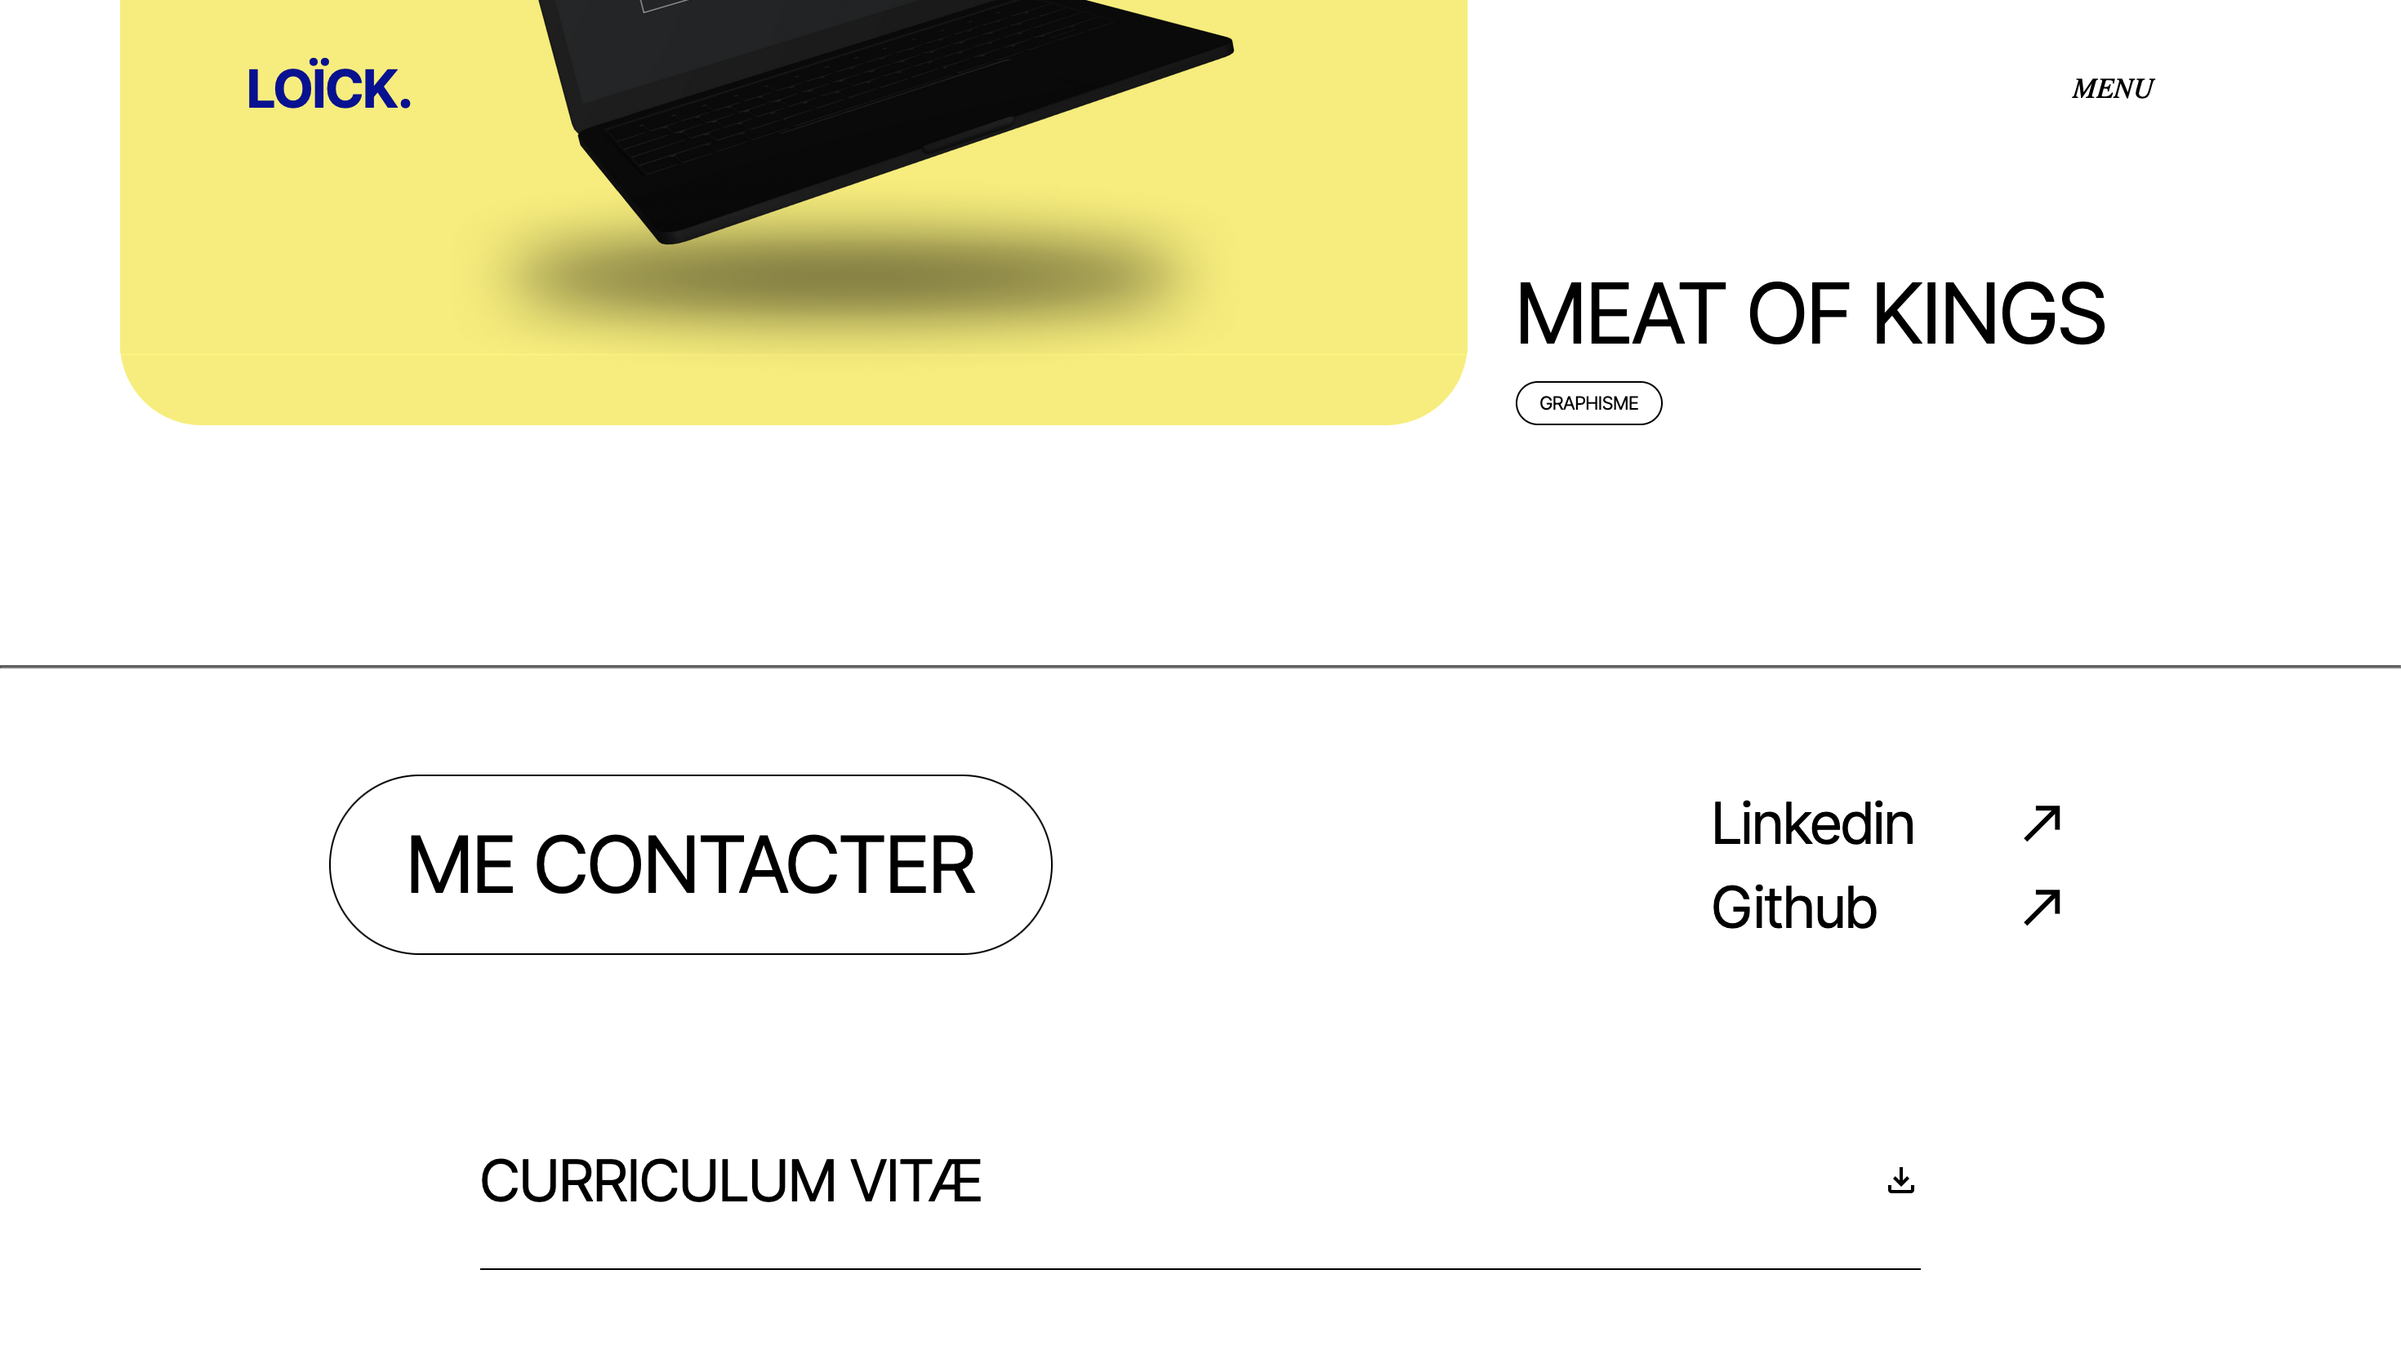
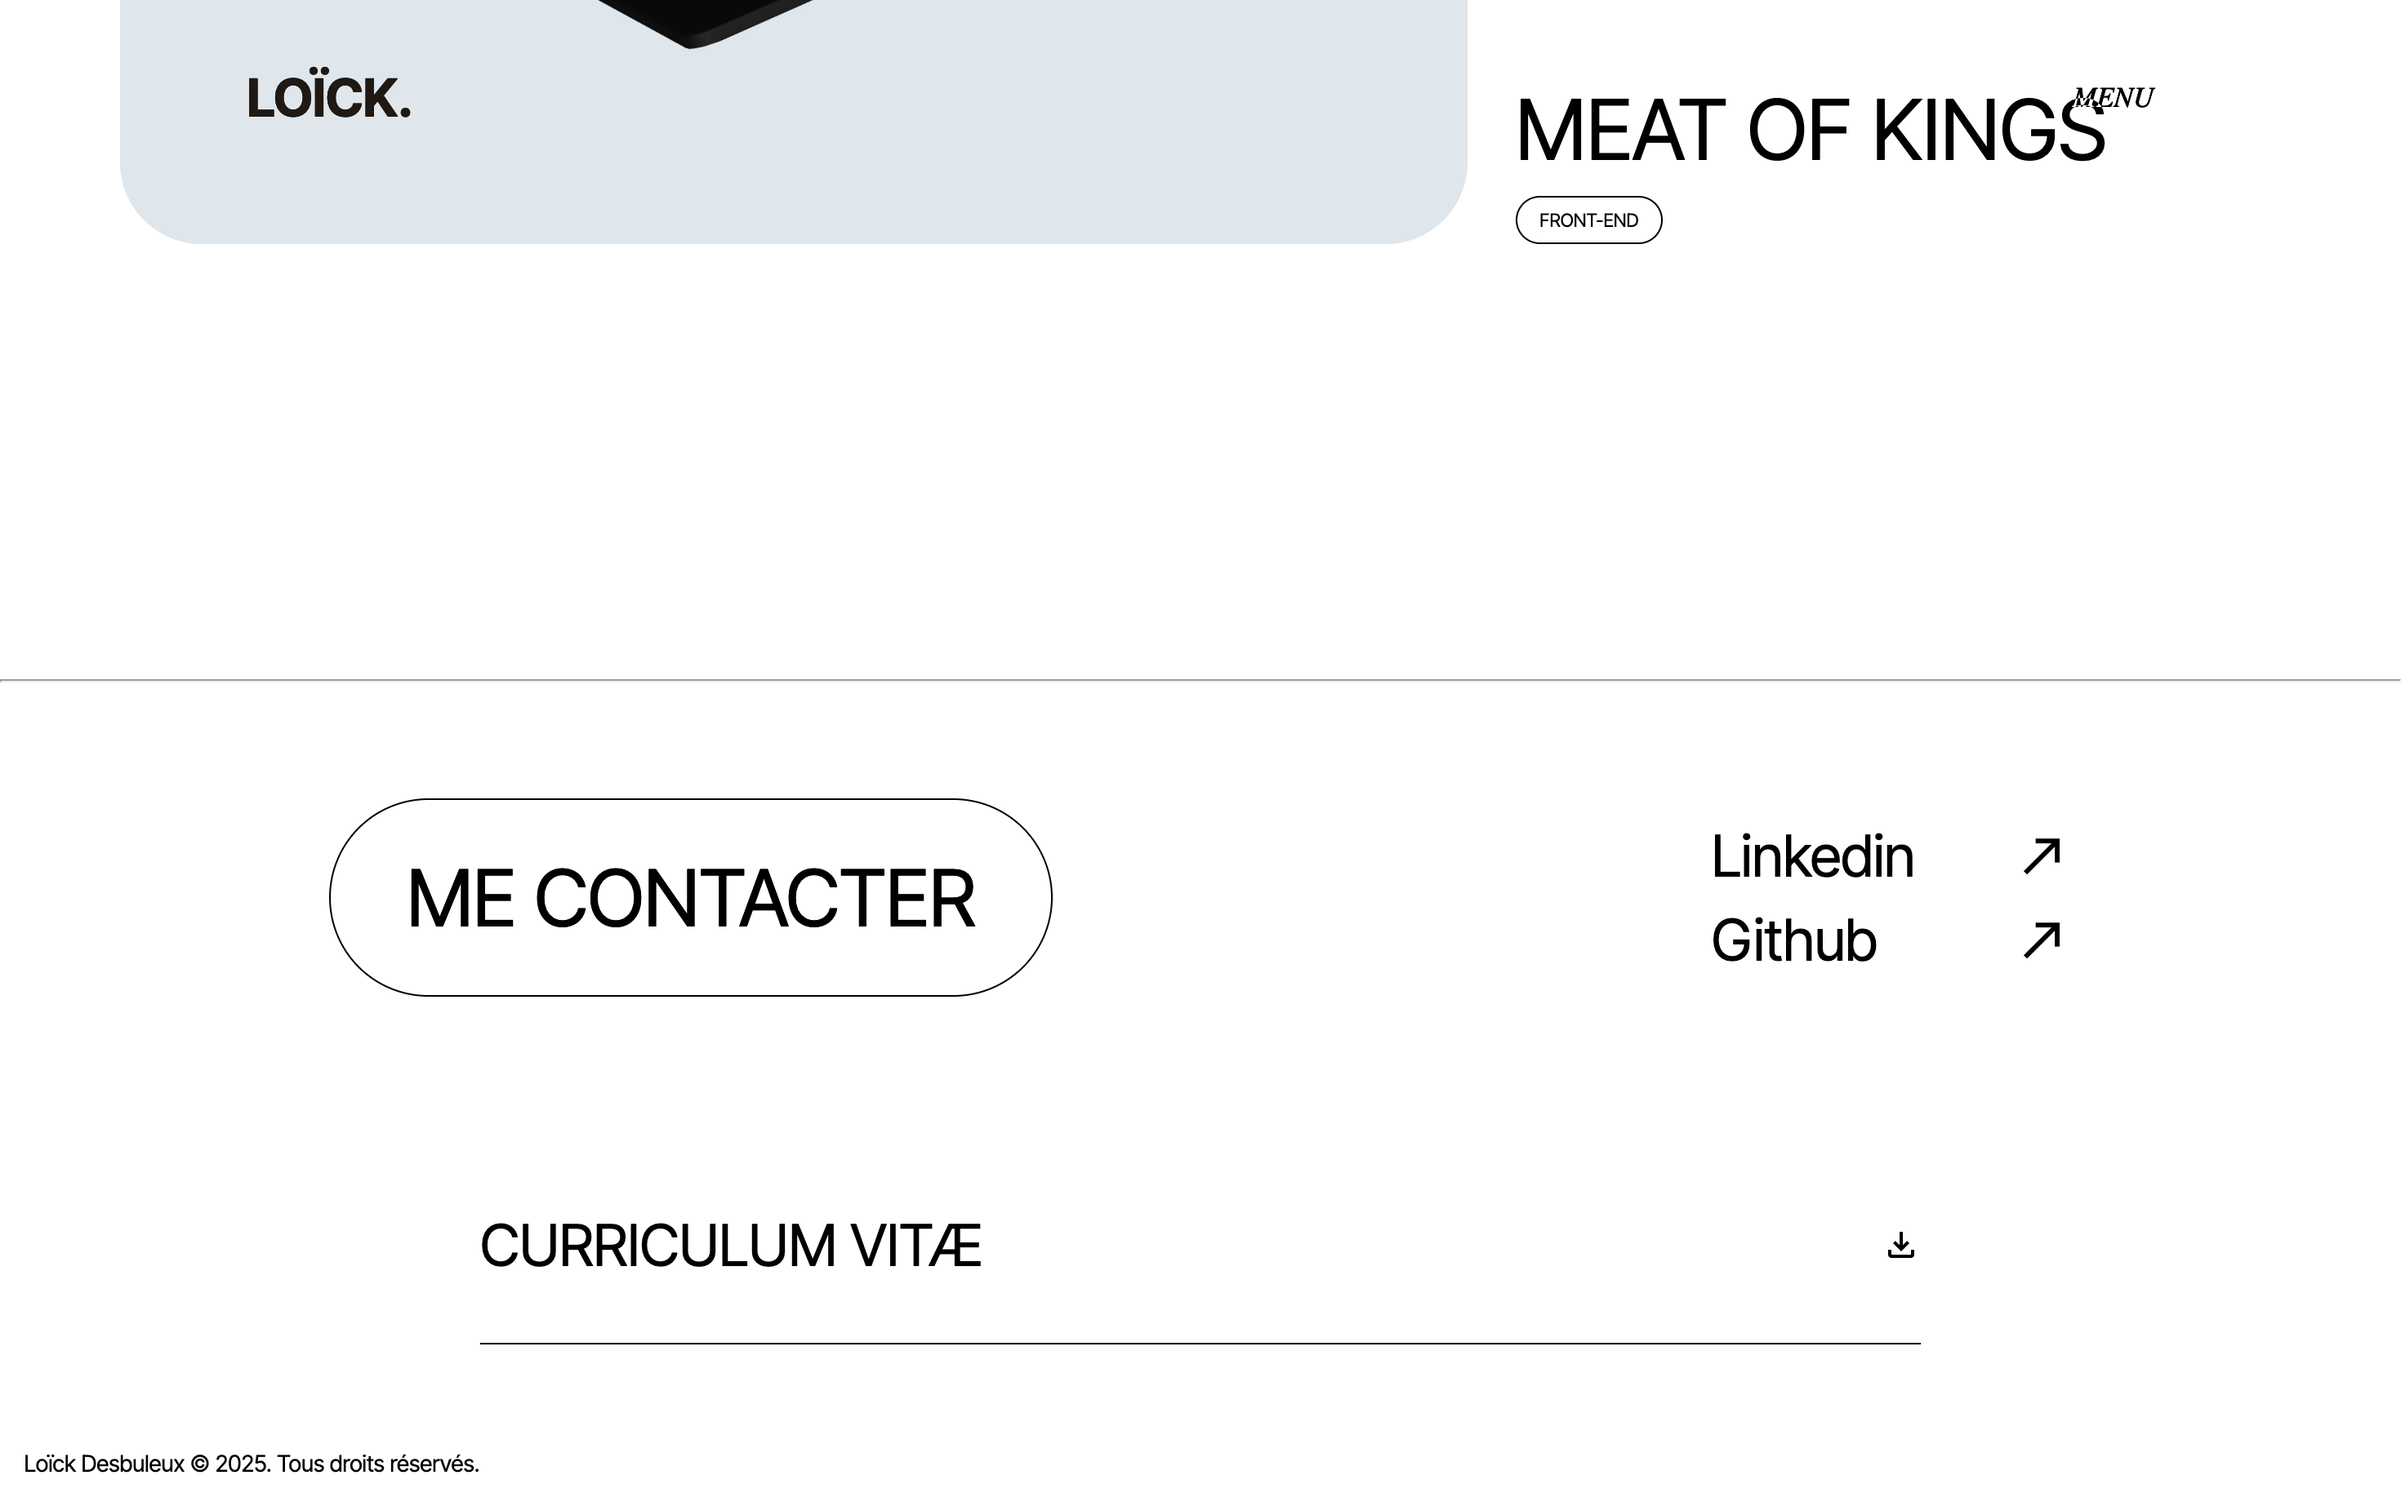
Add files via upload

diff --git a/index.html b/index.html
@@ -65,7 +65,7 @@
         </div>
     <section id="home">
        <h2 class="hidden-left">PORTFOLIO
-        <br><span>2024</span></h2>   
+        <br><span>2025</span></h2>   
            <aside>
            
             <script type="module" src="https://unpkg.com/@splinetool/viewer@1.0.66/build/spline-viewer.js"></script>
@@ -78,18 +78,18 @@
         <h2 class="reveal-left">A propos<br><span>de moi</span></h2>
         <div class="container">
             <div class="left">
-            <p class="reveal">Je suis Loïck Desbuleux, étudiant en deuxième année de BUT Métiers du Multimédia et de l'Internet. Aspirant Développeur Web, je suis fasciné par le web et les nouvelles technologies. Je m'efforce de combiner esthétique et fonctionnalité dans mes projets.</p>
+            <p class="reveal">Je suis Loïck Desbuleux, étudiant en troisième année de BUT Métiers du Multimédia et de l'Internet. Aspirant Développeur Web, je suis fasciné par le web et les nouvelles technologies. Je m'efforce de combiner esthétique et fonctionnalité dans mes projets.</p>
             <div id="keywords" class="reveal-bottom">
                 <span>Responsive</span>
                 <span>UI / UX</span>
                 <span>Webdesign</span>
-                <span>Graphisme</span>
+                <span>Jeu vidéo</span>
                 <span>Front-end</span>
                 <span>Back-end</span>
                
             </div>
             </div>
-            <img src="./images/IMG_9680_comp.jpg" class="reveal-right" alt="photo"/>
+            <img src="./images/photo.png" class="reveal-right" alt="photo"/>
         </div>
         <div class="skills">
             <div class="reveal-right-slider web-container" >
@@ -149,10 +149,35 @@
 
     </section>
     <section id="projects">
-        <h2 class="reveal-left">SELECTION<br><span>DE PROJETS</span></h2>
+        <h2 class="reveal-left">SELECTION<br><span>DE TRAVAUX</span></h2>
         <div class="projects">
+            
+            <div id="guardianofaetheria" class="reveal-left">
+                <a href="./html/guardianofaetheria.html"><div class="left-project"><img src="images/GuardianOfAetheria/guardianofaetheria.png"></div></a>
+                <div class="right-project">
+                    <h3><a href="./html/guardianofaetheria.html">Guardian <br> Of Æthéria</a></h3>
+                    <div>
+                        <span>Jeu vidéo</span>
+                    </div>
+
+                </div> 
+            </div>
+
+            <div id="pokemoncards" class="reveal-right">
+                <a href="./html/pokemoncards.html"><div class="left-project"><img src="images/PokemonCards/pokemoncards.png"></div></a>
+                <div class="right-project">
+                    <h3><a href="./html/pokemoncards.html">Pokemon Cards</a></h3>
+                    <div>
+                        <span>Front-end</span>
+                        <span>Back-end</span>
+                    </div>
+
+                </div> 
+            </div>
+            
+            
             <div id="dashboard" class="reveal-left">
-                <a href="./html/dashboard.html"><div class="left-project"><img src="images/Dashboard/dashboard.png"></div></a>
+                <a href="./html/dashboard.html"><div class="left-project"><img src="images/Dashboard/dashbord.png"></div></a>
                 <div class="right-project">
                     <h3><a href="./html/dashboard.html">Dashboard</a></h3>
                     <div>
@@ -163,7 +188,7 @@
                 </div> 
             </div>
             <div id="bugtracker" class="reveal-right">
-                <a href="./html/bugtracker.html"><div class="left-project"><img src="images/BugTracker/Mockup Bugtracker.png"></div></a>
+                <a href="./html/bugtracker.html"><div class="left-project"><img src="images/BugTracker/bugtracker.png"></div></a>
                 <div class="right-project">
                     <h3><a href="./html/bugtracker.html">Bugtracker</a></h3>
                     <div>
@@ -173,32 +198,11 @@
                 </div> 
             </div>
             <div id="meatofkings" class="reveal-left">
-                <a href="./html/mok.html"><div class="left-project"><img src="images/MOKS/Mockup mok.png"></div></a>
+                <a href="./html/mok.html"><div class="left-project"><img src="images/MOKS/meatofkings.png"></div></a>
                 <div class="right-project">
                     <h3><a href="./html/mok.html">Meat of Kings</a></h3>
                     <div>
                         <span>Front-end</span>
-                    </div>
-
-                </div> 
-            </div>
-            <div id="spine" class="reveal-right">
-                <a href="./html/spine.html"><div class="left-project"><img src="images/SpineSkatepark/Mockup spine.png"></div></a>
-                <div class="right-project">
-                    <h3><a href="./html/spine.html">Spine Skatepark</a></h3>
-                    <div>
-                        <span>UI / UX</span>
-                        <span>Graphisme</span>
-                    </div>
-
-                </div> 
-            </div>
-            <div id="meatofkingsvisuel" class="reveal-left">
-                <a href="./html/mokiv.html"><div class="left-project"><img src="images/MOKIV/Mockup mokiv.png"></div></a>
-                <div class="right-project">
-                    <h3><a href="./html/mokiv.html">Meat Of Kings</a></h3>
-                    <div>
-                        <span>Graphisme</span>
                     </div>
 
                 </div> 
@@ -216,12 +220,12 @@
                     north_east</span></span></a>
             </div>
         </div>
-        <a href="./assets/Alternance.pdf" download="CV" class="hidden-top"><span>Curriculum vitæ</span><span class="material-symbols-outlined">
-            download</span><img src="assets/Alternance.png"/></a>
+        <a href="./assets/CV.pdf" download="CV" class="hidden-top"><span>Curriculum vitæ</span><span class="material-symbols-outlined">
+            download</span><img src="assets/CV.png"/></a>
         
     
     </section>
-    <span>Loïck Desbuleux © 2024. Tous droits réservés.</span>
+    <span>Loïck Desbuleux © 2025. Tous droits réservés.</span>
 </main>
 
 </body>
